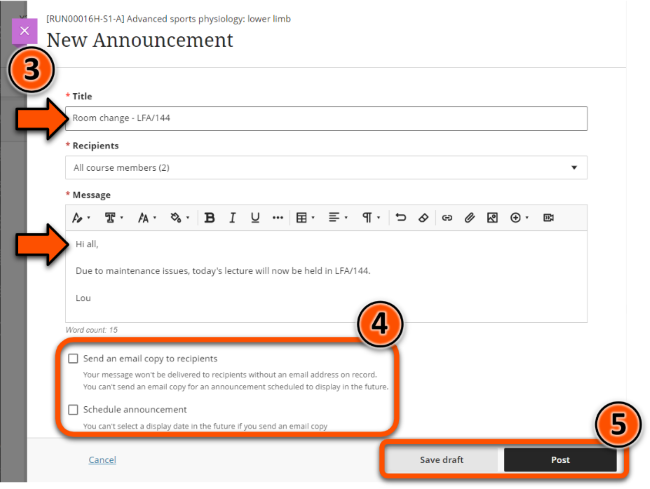
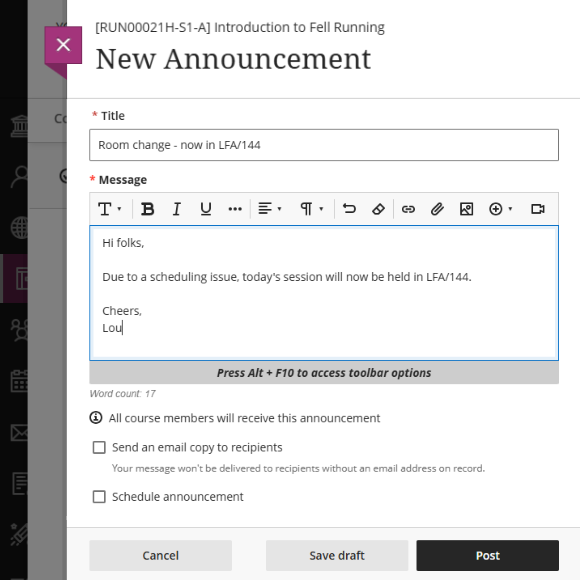
announcents - update image

diff --git a/docs/ultra/announcements.md b/docs/ultra/announcements.md
@@ -37,13 +37,12 @@ Announcements are sent to all enrolled users (including staff). To send targeted
 <br>![Decorative](images/announcement-nav.png)
 2. At the **top right corner** of the Course Announcement page, click the **plus icon** to create an announcement.
 <br>![Decorative](images/announcement-plus.png)
-3. On the **New Announcement** page, enter a descriptive title and the message text of your announcement. You can use the toolbar to format text, embed multimedia, and attach files (but remember that any module content included must also be added to the site itself).
-4. Select optional features:
-
-    - **Send an email copy** (See [What emails do announcements generate?](../ultra/announcements.md/#what-emails-do-announcements-generate) below for more details)
-    - **Schedule annoucement** to automatically post later.
-5. Click **Post** to send immediately, or  **Save draft** to review later via the Announcements panel.
-<br>![Decorative](images/announcement-create.png)
+3. On the **New Announcement** page:
+    - Enter a descriptive title and the message text of your announcement. Remember that any module content included must also be added to the site itself.
+    - Optional: **Send an email copy** (See [What emails do announcements generate?](../ultra/announcements.md/#what-emails-do-announcements-generate) below for more details)
+    - Optional: **Schedule annoucement** to automatically post later.
+4. Click **Post** to send immediately, or  **Save draft** to review later via the Announcements panel.
+<br>![An announcement with details of a room change](images/announcement-create.png)
 
 ## Edit, copy or delete an announcement
 
